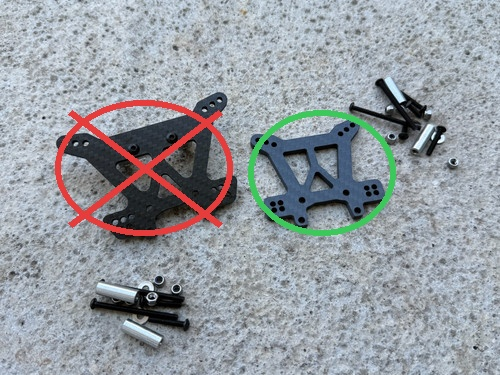
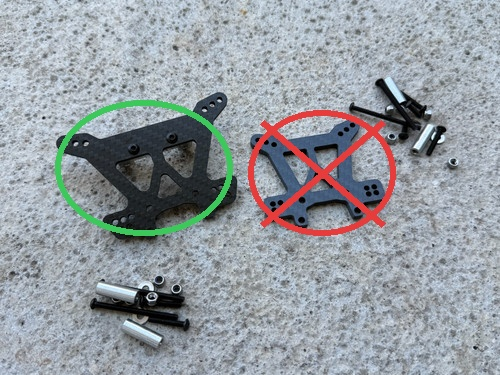
Jato shock towers: fix which carbon tower is circled
Had the annotation backwards. The rear tower is the left one in that
photo, and it's the one being used. Swapped the circle and the cross.

Changed region(s): [[0.09, 0.264, 0.81, 0.6453]]

diff --git a/cars/FastAzJato4x4/shock_tower_analysis.md b/cars/FastAzJato4x4/shock_tower_analysis.md
@@ -12,7 +12,7 @@
 
 <p align="center">
   <img src="src/suspension_shock_tower_traxxas_stock_front_9033.jpg" width="500">&nbsp;<img src="src/suspension_shock_tower_gmaxx_cf_annotated.jpg" width="500"><br>
-  <em>Stock composite #9033, the chosen front · G-Maxx carbon set, only the rear tower is used</em>
+  <em>Stock composite #9033, the chosen front · G-Maxx carbon set, rear tower circled, the front tower goes unused</em>
 </p>
 
 ---
